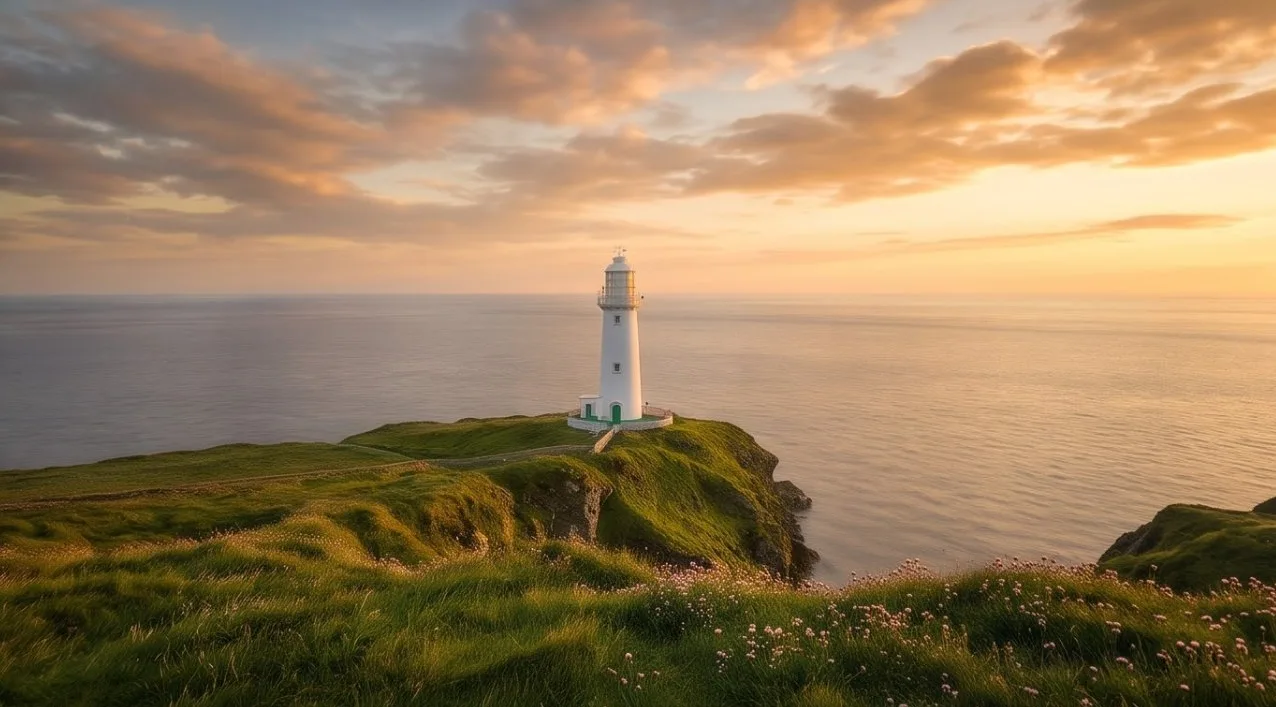
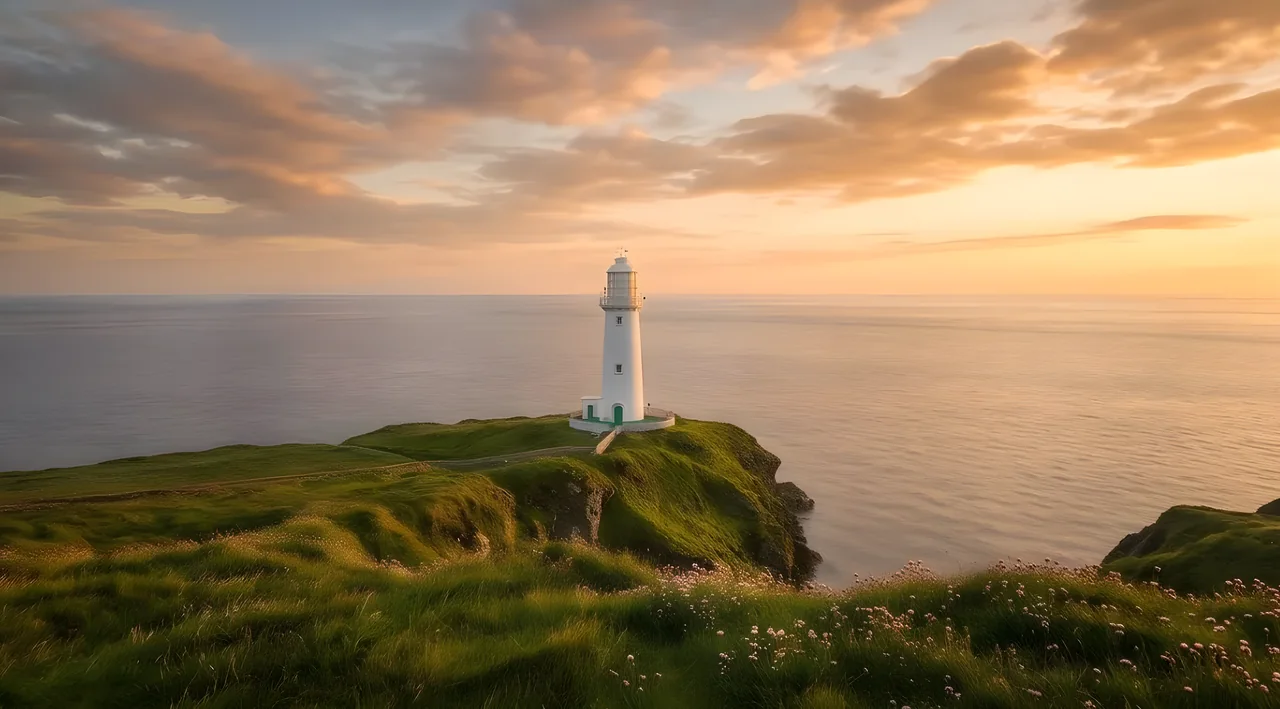
Lumin Vocab 3.5.0: tap effects beside the Journey road, every scene sharp on phones
- Tapping anything beside the Journey road answers with its own small effect: stars, petals,
  fireflies, ripples, notes, bees, steam, snow, drops and more, with soft sounds.
- All 24 scenes enlarged with Real-ESRGAN. Phones held upright get a tall copy cut around each
  scene's focus, wide screens get a wide copy, and wallpapers are now up to 3840 wide.
- The offline app shell now includes the tap effects module.
- Practice test copes with the Guess the word game turning up in Rush.

Claude-Session: https://claude.ai/code/session_012viSL6nTU3qMk9XF6xd7PP

diff --git a/tests/e2e/app.spec.js b/tests/e2e/app.spec.js
@@ -19,7 +19,18 @@ async function onboard(page, { name = "Alex", role = "An adult" } = {}) {
 
 // Answer whatever question is showing, wrongly (tiles in their scrambled order are never the word)
 async function answerWrong(page) {
-  await page.locator(".flash:not(.flipped), .ltile, .spellin, .opts:not(.answered)").first().waitFor();
+  await page.locator(".flash:not(.flipped), .ltile, .spellin, .opts:not(.answered), .hkeys").first().waitFor();
+  if (await page.locator(".hkeys").count()) {
+    // Guess the word: press letters that are not in it until the lanterns run out
+    const target = await page.evaluate(async () => { const m = await import("/js/model.js"); const d = document.querySelector(".qprompt .qd").textContent.replace(/^Hint: /, ""); return m.WORDS.find((w) => w.d === d).w.toLowerCase(); });
+    for (const c of "abcdefghijklmnopqrstuvwxyz") {
+      if (target.includes(c)) continue;
+      const k = page.locator(`.hkey[aria-label="Letter ${c}"]:not([disabled])`);
+      if (!(await page.locator(".hkeys").count()) || await page.getByRole("button", { name: /Continue|See results/ }).count()) break;
+      if (await k.count()) await k.click();
+    }
+    return true;
+  }
   if (await page.locator(".flash").count()) { await page.locator(".flash").click(); await page.getByRole("button", { name: "Still learning" }).click(); return false; }
   if (await page.locator(".ltile").count()) { for (const t of await page.locator(".ltile").all()) await t.click(); return true; }
   if (await page.locator(".spellin").count()) { await page.locator(".spellin").fill("zzzz"); await page.getByRole("button", { name: "Check" }).click(); return true; }
@@ -195,7 +206,13 @@ test("practice games score answers and challenges keep their rules", async ({ pa
   await page.getByRole("button", { name: "Done", exact: true }).click();
   await page.getByRole("button", { name: /Rush/ }).click();
   await expect(page.locator(".pstat .icon")).toHaveCount(3);
-  for (let k = 0; k < 3; k++) { if (await answerWrong(page)) await page.getByRole("button", { name: /Continue|See results/ }).click(); else await page.waitForTimeout(400); }
+  for (let k = 0; k < 3; k++) {
+    if (await answerWrong(page)) {
+      // the answer sheet slides up; on a slow phone it can still be moving, so try again rather than wait forever
+      const go = page.getByRole("button", { name: /Continue|See results/ });
+      for (let t = 0; t < 5 && await go.count(); t++) await go.click({ timeout: 3000 }).catch(() => {});
+    } else await page.waitForTimeout(400);
+  }
   await expect(page.locator(".endcard")).toBeVisible();
   await page.getByRole("button", { name: "Done", exact: true }).click();
   await page.getByRole("button", { name: /Sprint/ }).click();

diff --git a/public/sw.js b/public/sw.js
@@ -6,7 +6,7 @@ const AUDIO = "lumin-audio-v1";
 const SHELL = [
   "/", "/index.html", "/app.css", "/manifest.webmanifest", "/data/words.json", "/data/trails.json", "/404.html", "/art/grain.png",
   "/js/app.js", "/js/views.js", "/js/model.js", "/js/store.js", "/js/sync.js", "/js/srs.js", "/js/device.js", "/js/ui.js", "/js/scan.js", "/js/vendor/qrcode.mjs",
-  "/js/art.js", "/js/sound.js", "/js/wordsheet.js", "/js/words.js", "/js/journey.js", "/js/practice.js", "/js/games.js", "/js/library.js", "/js/you.js", "/js/motion.js",
+  "/js/art.js", "/js/sound.js", "/js/wordsheet.js", "/js/words.js", "/js/journey.js", "/js/decorfx.js", "/js/practice.js", "/js/games.js", "/js/library.js", "/js/you.js", "/js/motion.js",
   "/icons/logo.svg", "/icons/favicon.svg", "/icons/app-192.png", "/icons/app-apple-180.png",
   "/fonts/literata-latin-400-normal.woff2", "/fonts/literata-latin-600-normal.woff2", "/fonts/literata-latin-400-italic.woff2",
   "/fonts/atkinson-hyperlegible-latin-400-normal.woff2", "/fonts/atkinson-hyperlegible-latin-700-normal.woff2",
